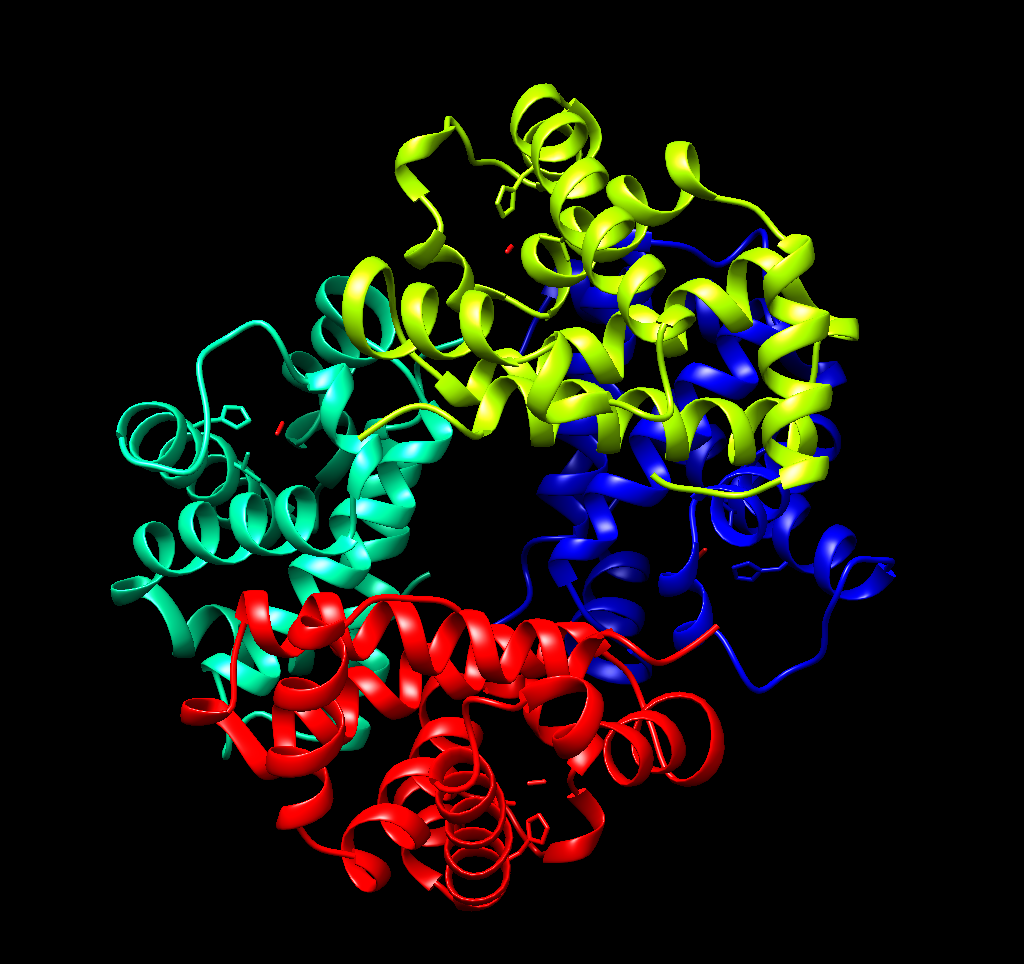
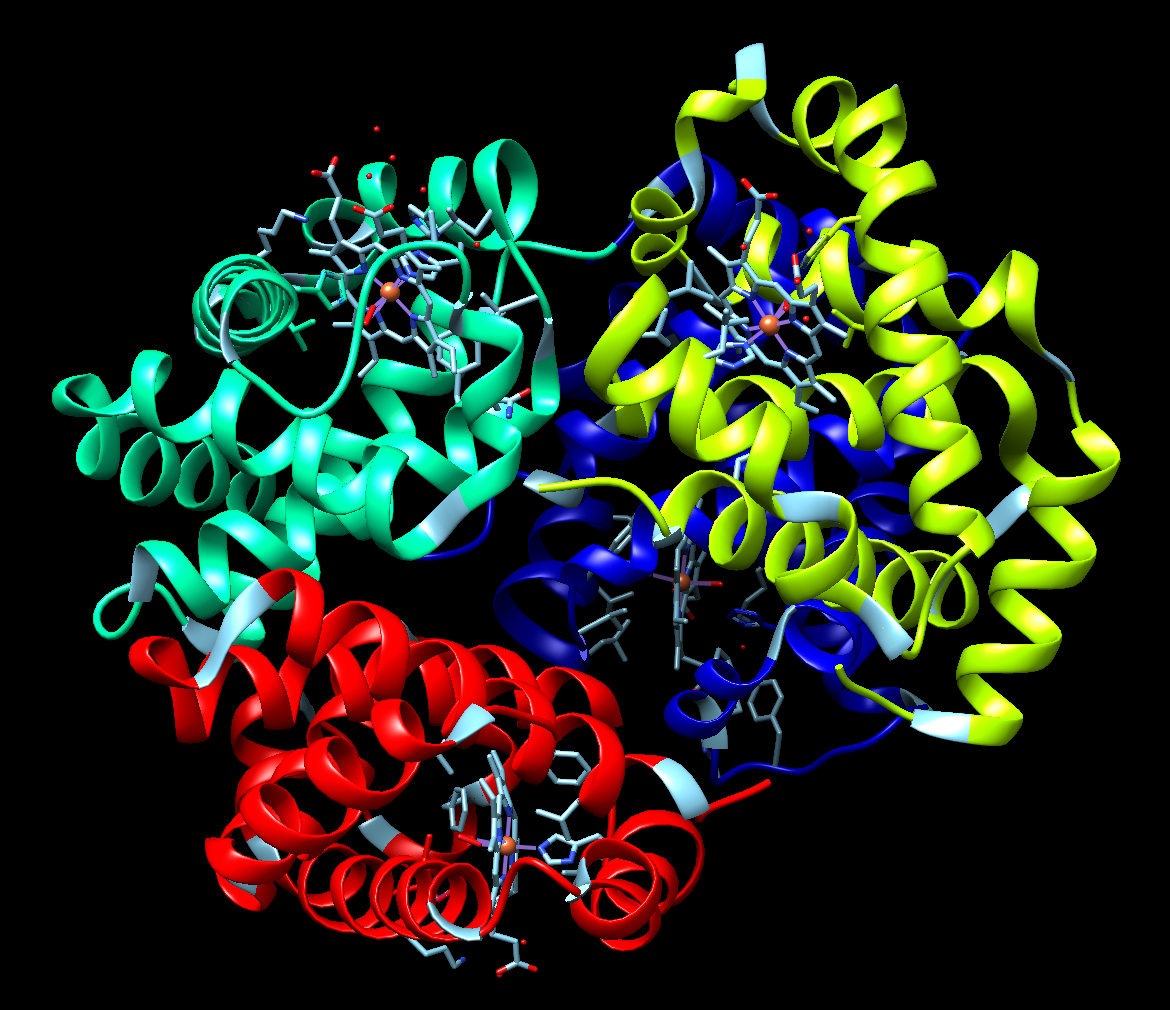
i:wq

diff --git a/macrocomplex_builder.py b/macrocomplex_builder.py
@@ -356,7 +356,6 @@ def macrocomplex_builder(id_dict, similar_seq, interaction_dict, seq_dict, direc
     :return: returns the built macro-complex/es
     """
     global branch_id
-
     # # returns a set with all the chains passed by the user
     # chains = set([item for sublist in [x for x in str_dict] for item in sublist])
 

diff --git a/README.md b/README.md
@@ -46,7 +46,7 @@ that stage can.
 
 By doing so we start with all the different chains the user has found in the
 input and recursively add chains on top of them. Each node of the recursive tree has an
-identifier indicating the interactions occuring at that stage, this identifier is saved
+identifier indicating the interactions occurring at that stage, this identifier is saved
 for further usage. This identifier enables us to assess if a macro-complex at a specific
 node has already been processed in a previous node and, therefore,
 stop that branch.
@@ -152,16 +152,45 @@ In the following section we are going to discuss some examples of inputs-outputs
 and how it worked for each one.
 ### 1gzx - Hemoglobin
 
+This is an example of complex formed by 2 different chains that form 3 types of
+interactions.This program is able to properly fully reconstruct this complex with
+the interactions given as we can see in the images below. Our program, thus, has
+no problem dealing with this type of interactions. We can see there are no how there
+are minimal to no differences between the superimposed original 1gzx and the ones
+the program has built.
+
+
 | <img src="https://github.com/Amoralpa11/SBI-project/blob/complex_breaker/img/1gzx_original.png" width="200" height="200"> | <img src="https://github.com/Amoralpa11/SBI-project/blob/complex_breaker/img/1gzx_built.png" width="200" height="200"> | <img src="https://github.com/Amoralpa11/SBI-project/blob/complex_breaker/img/1gzx_built_optimized.png" width="200" height="200"> |
 | :---: | :---: | :---: |
-| *Original* | *Built-no optimization* | *optimization*|
+| *Original* | *Built-no optimization* | *Optimization*|
+
+
+### 3kuy - Nucleosome
+
+This is an example of complex formed by 10 different chains, 8 protein and 2 DNA.
+In the following images we can see the original 3kuy, the 3kuy we built superimposed
+the real 3kuy and the optimized 3kuy with, again, the original 3kuy superimposed.
+No flaws are seen in the built complexes, therefore, we can say that the
+program can work with DNA as well as with protein chains with relatively simple
+structures.
+
+| <img src="https://github.com/Amoralpa11/SBI-project/blob/complex_breaker/img/3kuy_original.png" width="200" height="200"> | <img src="https://github.com/Amoralpa11/SBI-project/blob/complex_breaker/img/3kuy_built.png" width="200" height="200"> | <img src="https://github.com/Amoralpa11/SBI-project/blob/complex_breaker/img/3kuy_built_optimized.png" width="200" height="200"> |
+| :---: | :---: | :---: |
+| *Original* | *Built-no optimization* | *Optimization*|
+
+### 1g65 - proteasome
+
+| <img src="https://github.com/Amoralpa11/SBI-project/blob/complex_breaker/img/1g65_original.png" width="200" height="200"> | <img src="https://github.com/Amoralpa11/SBI-project/blob/complex_breaker/img/1g65_built.png" width="200" height="200"> | <img src="https://github.com/Amoralpa11/SBI-project/blob/complex_breaker/img/1g65_built_optimized.png" width="200" height="200"> |
+| :---: | :---: | :---: |
+| *Original* | *Built-no optimization* | *Optimization*|
+
 
 ### Limitations
 
 The main limitations of this program are the following:
 
-* When performing the reduction of repeated interactions in the input by similiarity we set certain thresholds of similiarity. These thresholds can lead to consider subunits formed by the same chains and that have the same interaction but that are slightly rotated, so as to fit in a barrerl for example, to be deprecated. In these cases we only gather one of these interactions and ultimately when building the complex, barrel in this case, the last subunit may not be added due to clashes derived from an accumulation of little rotation mistakes in the rest of subunits forming the barrel.
+* When performing the reduction of repeated interactions in the input by similarity we set certain thresholds of similarity. These thresholds can lead to consider subunits formed by the same chains and that have the same interaction but that are slightly rotated, so as to fit in a barrel for example, to be deprecated. In these cases we only gather one of these interactions and ultimately when building the complex, barrel in this case, the last subunit may not be added due to clashes derived from an accumulation of little rotation mistakes in the rest of subunits forming the barrel.
 
-* With the recursive approach the amount of processing time when many chains with many interactions are passed and an intesive search is specified can be very large. In these cases we recommend to use the option -simp of the program which returns the first structure found, therefore, reducing processing time but with the inconvenient that the structure returned may not be the desired by the user.
+* With the recursive approach the amount of processing time when many chains with many interactions are passed and an intensive search is specified can be very large. In these cases we recommend to use the option -simp of the program which returns the first structure found, therefore, reducing processing time but with the inconvenient that the structure returned may not be the desired by the user.
 
 * We would have liked to give the user a little more control over the parameters used to define clashes and interactions allowing him to pass a file with the specifications of the parameters. For example, if he wanted to use CA or CB to measure distances, minimum distance to consider a clash/interaction, etc...
